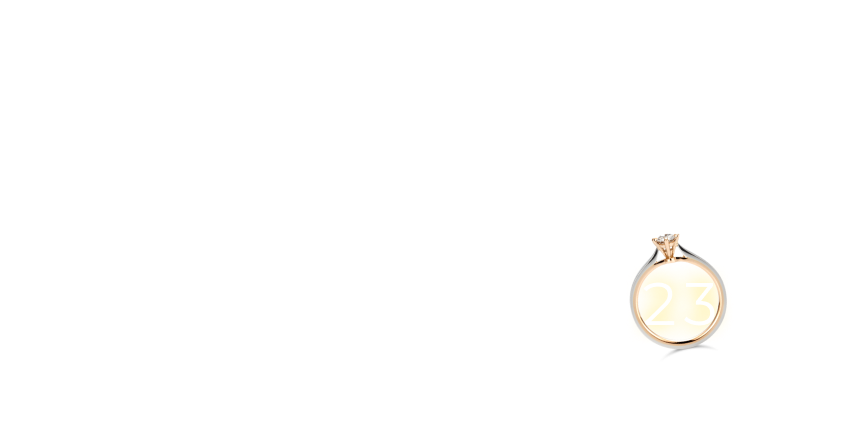
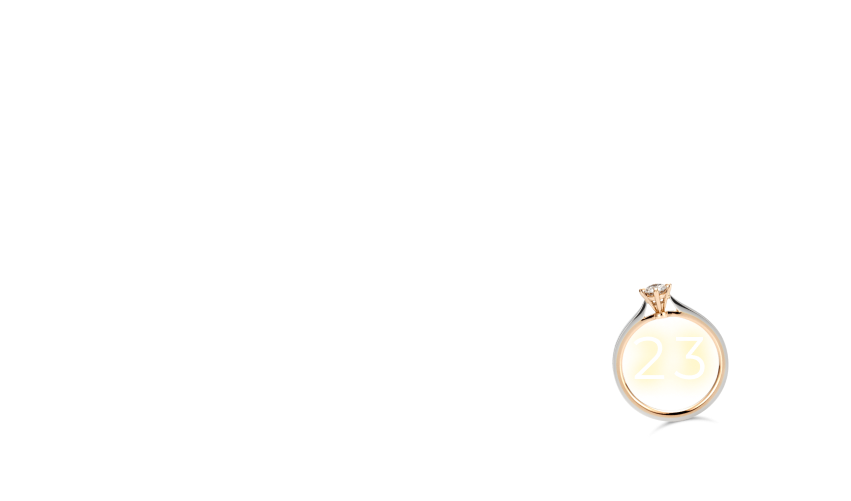
1

Changed region(s): [[0.7027, 0.5455, 0.8555, 0.8485]]

diff --git a/index.html b/index.html
@@ -6,6 +6,7 @@
     <meta http-equiv="X-UA-Compatible" content="IE=edge">
     <meta name="viewport" content="width=device-width, initial-scale=1.0">
     <link rel="stylesheet" href="./css/main.css">
+    <link href="https://unpkg.com/aos@2.3.1/dist/aos.css" rel="stylesheet">
     <title>Asrorbek</title>
 </head>
 
@@ -20,21 +21,23 @@
         <section class="hero">
             <div class="container">
                 <div class="hero__container">
-                    <p class="hero__header">ПРИГЛАШАЕМ <br> <span class="hero__dec">НА ЦЕРЕМОНИЮ <br> ОТКРЫТИЯ</span>
+                    <p data-aos="fade" data-aos-duration="2000" class="hero__header">ПРИГЛАШАЕМ <br> <span
+                            class="hero__dec">НА ЦЕРЕМОНИЮ <br> ОТКРЫТИЯ</span>
                     </p>
 
-                    <h2 class="hero__body">SOKOLOV</h2>
+                    <h2 data-aos="fade" data-aos-duration="2000" class="hero__body">SOKOLOV</h2>
 
-                    <p class="hero__subheader">UZBEKISTAN</p>
+                    <p data-aos="fade" data-aos-duration="2000" class="hero__subheader">UZBEKISTAN</p>
                 </div>
             </div>
         </section>
 
         <section class="about">
-            <div class="about__container">
+            <div class="about__container" data-aos="fade" data-aos-duration="2000">
                 <h2 class="about__header">Дорогой Друг!</h2>
 
-                <p class="about__body">Приглашаем Вас на торжественное открытие флагманского магазина SOKOLOV в
+                <p class="about__body" data-aos="fade" data-aos-duration="2000">Приглашаем Вас на торжественное открытие
+                    флагманского магазина SOKOLOV в
                     Ташкенте!
                     <br>
                     <br>
@@ -49,13 +52,13 @@
                     и высококлассной стали.
                 </p>
 
-                <img class="about__ribbon-img" src="./img/babochka.png" alt="">
+                <img data-aos="fade" data-aos-duration="2000" class="about__ribbon-img" src="./img/babochka.png" alt="">
             </div>
         </section>
 
         <section class="calendar">
-            <div class="calendar__container">
-                <div class="calendar__wrapper">
+            <div class="calendar__container" data-aos="fade" data-aos-duration="2000">
+                <div class="calendar__wrapper" data-aos="fade" data-aos-duration="2000">
                     <p class="calendar__month-week">Суббота</p>
 
                     <p class="calendar__date">23</p>
@@ -63,12 +66,12 @@
                     <p class="calendar__month-week">Декабря</p>
                 </div>
 
-                <div class="calendar__month-wrapper">
+                <div class="calendar__month-wrapper" data-aos="fade" data-aos-duration="2000">
                     <p class="calendar__month-year">Декабрь</p>
                     <p class="calendar__month-year">2023</p>
                 </div>
 
-                <ul class="calendar__list">
+                <ul class="calendar__list" data-aos="fade" data-aos-duration="2000">
                     <li class="calendar__item">Пн</li>
                     <li class="calendar__item">Вт</li>
                     <li class="calendar__item">Ср</li>
@@ -78,12 +81,12 @@
                     <li class="calendar__item">Вс</li>
                 </ul>
 
-                <img src="./img/calendar.png" alt="" class="calendar__img">
+                <img data-aos="fade" data-aos-duration="2000" src="./img/calendar.png" alt="" class="calendar__img">
             </div>
         </section>
 
         <section class="map">
-            <div class="map__container">
+            <div class="map__container" data-aos="fade" data-aos-duration="2000">
                 <h2 class="map__header">Локация</h2>
 
                 <p class="map__subheader">ТРЦ «Riviera», 1-этаж</p>
@@ -100,9 +103,9 @@
 
         <section class="program">
             <div class="program__container">
-                <h2 class="program__header">Программа <br> мероприятия</h2>
+                <h2 class="program__header" data-aos="fade" data-aos-duration="2000">Программа <br> мероприятия</h2>
 
-                <ul class="program__list">
+                <ul class="program__list" data-aos="fade" data-aos-duration="2000">
                     <li class="program__item">
                         <p class="program__hour">12:00</p>
 
@@ -125,12 +128,12 @@
         </section>
 
         <section class="time">
-            <div class="time__container">
+            <div class="time__container" data-aos="fade" data-aos-duration="2000">
                 <h2 class="time__header">Увидимся на открытии!</h2>
 
                 <p class="time__subheader">Ждём Вас через:</p>
 
-                <ul id="timer" class="time__list">
+                <ul id="timer" class="time__list" data-aos="fade" data-aos-duration="2000">
                     <li class="time__item">
                         <h3 id="days" class="time__time">00</h3>
 
@@ -156,7 +159,7 @@
                     </li>
                 </ul>
 
-                <div class="time__wrapper" data-aos="fade" data-aos-duration="3000">
+                <div class="time__wrapper" data-aos="fade" data-aos-duration="2000">
                     <a href="tel:+998955616161" class="time__social-link"><img src="./img/call.svg" alt=""></a>
 
                     <a href="https://t.me/le_invitations" class="time__social-link"><img src="./img/telegram.svg"
@@ -171,7 +174,7 @@
                     </a>
                 </div>
 
-                <hr class="time__hr">
+                <hr class="time__hr" data-aos="fade" data-aos-duration="2000">
 
                 <a href="https://me-qr.com/ru/link-list/raARUzAB/show" class="time__link">le_invitations</a>
 
@@ -182,7 +185,12 @@
     </main>
 </body>
 
-<!-- <script src="./js/snow.js"></script> -->
 <script src="./js/index.js"></script>
+
+
+<script src="https://unpkg.com/aos@next/dist/aos.js"></script>
+<script>
+    AOS.init();
+</script>
 
 </html>

diff --git a/css/main.css b/css/main.css
@@ -231,12 +231,12 @@ a {
   position: absolute;
   content: "";
   display: inline-block;
-  width: 54px;
+  width: 94px;
   height: 222px;
-  background-image: url("../../img/star-little-right.png");
+  background-image: url("../../img/calendar-star.png");
   background-repeat: no-repeat;
   right: 0;
-  top: calc(50% + 85px);
+  top: calc(50% + 155px);
 }
 .calendar__date {
   text-align: center;
@@ -310,6 +310,20 @@ a {
   background-size: cover;
   padding-top: 30px;
   padding-bottom: 100px;
+}
+.map::before {
+  position: absolute;
+  content: "";
+  display: inline-block;
+  width: 69px;
+  height: 236px;
+  background-image: url("../../img/map-star.png");
+  background-repeat: no-repeat;
+  background-position: center;
+  background-size: contain;
+  z-index: 1;
+  left: 0;
+  top: 50%;
 }
 .map::after {
   content: "";
@@ -392,6 +406,20 @@ a {
   bottom: 0;
   left: 0;
   background-color: rgba(12, 44, 101, 0.88);
+}
+.program::before {
+  content: "";
+  position: absolute;
+  display: inline-block;
+  width: 108px;
+  height: 246px;
+  background-image: url("../../img/list.png");
+  background-repeat: no-repeat;
+  background-size: contain;
+  background-position: center;
+  right: 0;
+  z-index: 1;
+  top: calc(50% + 130px);
 }
 .program__body {
   color: #FFF;
@@ -512,7 +540,7 @@ a {
   position: relative;
   background: url("../../img/time-bg.png");
   background-repeat: no-repeat;
-  background-position: center;
+  background-position: calc(0% - 80px);
   background-size: cover;
   padding-top: 70px;
   padding-bottom: 70px;
@@ -525,6 +553,20 @@ a {
   bottom: 0;
   left: 0;
   background-color: rgba(12, 44, 101, 0.88);
+}
+.time::before {
+  position: absolute;
+  content: "";
+  display: inline-block;
+  width: 98px;
+  height: 257px;
+  background-image: url("../../img/footer.png");
+  background-repeat: no-repeat;
+  background-position: center;
+  background-size: contain;
+  z-index: 1;
+  left: 0;
+  top: calc(50% - 85px);
 }
 .time__body {
   color: #FFF;

diff --git a/scss/blocks/_time.scss b/scss/blocks/_time.scss
@@ -2,7 +2,7 @@
   position: relative;
   background: url('../../img/time-bg.png');
   background-repeat: no-repeat;
-  background-position: center;
+  background-position: calc(0% - 80px);
   background-size: cover;
   padding-top: 70px;
   padding-bottom: 70px;
@@ -15,6 +15,21 @@
     bottom: 0;
     left: 0;
     background-color: rgba(12, 44, 101, 0.88);
+  }
+
+  &::before {
+    position: absolute;
+    content: "";
+    display: inline-block;
+    width: 98px;
+    height: 257px;
+    background-image: url('../../img/footer.png');
+    background-repeat: no-repeat;
+    background-position: center;
+    background-size: contain;
+    z-index: 1;
+    left: 0;
+    top: calc(50% - 85px);
   }
 
   &__body {

diff --git a/scss/blocks/_program.scss b/scss/blocks/_program.scss
@@ -17,6 +17,21 @@
     background-color: rgba(12, 44, 101, 0.88);
   }
 
+  &::before {
+    content: '';
+    position: absolute;
+    display: inline-block;
+    width: 108px;
+    height: 246px;
+    background-image: url('../../img/list.png');
+    background-repeat: no-repeat;
+    background-size: contain;
+    background-position: center;
+    right: 0;
+    z-index: 1;
+    top: calc(50% + 130px);
+  }
+
   &__body {
     color: #FFF;
     text-align: center;

diff --git a/scss/blocks/_map.scss b/scss/blocks/_map.scss
@@ -7,6 +7,21 @@
   padding-top: 30px;
   padding-bottom: 100px;
 
+  &::before {
+    position: absolute;
+    content: "";
+    display: inline-block;
+    width: 69px;
+    height: 236px;
+    background-image: url('../../img/map-star.png');
+    background-repeat: no-repeat;
+    background-position: center;
+    background-size: contain;
+    z-index: 1;
+    left: 0;
+    top: 50%;
+  }
+
 
   &::after {
     content: '';

diff --git a/scss/blocks/_calendar.scss b/scss/blocks/_calendar.scss
@@ -27,12 +27,12 @@
       position: absolute;
       content: "";
       display: inline-block;
-      width: 54px;
+      width: 94px;
       height: 222px;
-      background-image: url('../../img/star-little-right.png');
+      background-image: url('../../img/calendar-star.png');
       background-repeat: no-repeat;
       right: 0;
-      top: calc(50% + 85px);
+      top: calc(50% + 155px);
     }
   }
 
